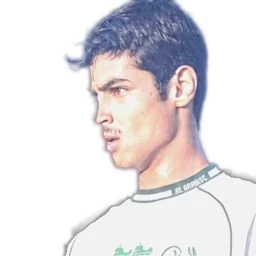
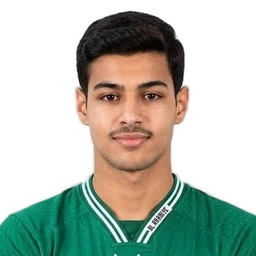
الجهراء: «تركي المطيري» صار لاعب الوسط (22، وسط ميدان) بصورته وبلا علم السعودية؛ المهاجم السعودي خارج الكشف. الفانتسي: p189 اسمه «تركي» بلا رقم ولا صورة «غير متوفر» ولا يُطابق أي اسم من الموقع. العربي: صورة سعود العنبري الجديدة (Gemini بالطقم الأخضر) — صور ?v=26، PLAYER_PHOTOS_VER 28، fantasy 248، s

diff --git a/fantasy/js/mfsync.js b/fantasy/js/mfsync.js
@@ -12,18 +12,19 @@ const MF_SQUAD_ADD = {
   'الفحيحيل': [ {n:'فهد الشلال', p:'LM', s:19}, {n:'احمد الشمري', p:'GK', s:22}, {n:'عبدالرحمن سالم', p:'CB', s:12} ],
   'الساحل': [ {n:'فاضل الصراف', p:'LM', s:20} ],
   'السالمية': [ {n:'فهد العميري', p:'RB', s:94}, {n:'علي دشتي', p:'CB', s:28} ],
-  'الجهراء': [ {n:'عبدالرحمن الاصيمع', p:'RM', s:10}, {n:'عبدالعزيز المسافر', p:'GK', s:0}, {n:'تركي المطيري (وسط)', p:'CM', s:22}, {n:'محمد الرشيدي', p:'GK', s:39} ],
+  'الجهراء': [ {n:'عبدالرحمن الاصيمع', p:'RM', s:10}, {n:'عبدالعزيز المسافر', p:'GK', s:0}, {n:'محمد الرشيدي', p:'GK', s:39} ],
 };
 /* انتقالات (نفس SQUAD_MOVE في index.html): تُطبّق على squads عند القراءة، فيلتقطها سحب الكشوفات كانتقال ويبقى السعر. */
 /* تصحيح رقم القميص (نفس SQUAD_NUM في index.html) */
 const MF_SQUAD_NUM = [
   {c:'العربي', n:'احمد عادي', s:26},
   {c:'العربي', n:'عايد ماجد', s:36},
+  {c:'الجهراء', n:'تركي المطيري', s:22, p:'CM'},
   {c:'الجهراء', n:'عبدالرحمن الاصيمع', s:10, p:'RM'},
 ];
-/* حذف من الكشف (نفس SQUAD_REMOVE في index.html) — مطابقة حرفية */
-const MF_SQUAD_REMOVE = [
-  {c:'الجهراء', n:'تركي المطيري'},
+/* إعادة تسمية (نفس SQUAD_RENAME في index.html) */
+const MF_SQUAD_RENAME = [
+  {c:'الجهراء', from:'تركي المطيري (وسط)', to:'تركي المطيري'},
 ];
 const MF_SQUAD_MOVE = [
   {n:'بدر طارق', from:'العربي', to:'كاظمة', s:77},
@@ -65,6 +66,9 @@ const MFSYNC = {
   async fetchSeason(){
     const d = await this.fetchSeasonRaw();
     if(d && d.squads){
+      MF_SQUAD_RENAME.forEach(r=>{ const l=d.squads[r.c]; if(!Array.isArray(l)) return; const nm=e=>String(typeof e==='string'?e:(e&&e.n)||'').trim();
+        if(!l.some(e=>nm(e)===r.from)) return;
+        d.squads[r.c]=l.filter(e=>nm(e)!==r.to).map(e=>nm(e)===r.from ? Object.assign({}, typeof e==='object'?e:{}, {n:r.to}) : e); });
       for(const c in MF_SQUAD_ADD){
         if(!Array.isArray(d.squads[c])) continue;
         MF_SQUAD_ADD[c].forEach(x=>{ if(!d.squads[c].some(e=>this.norm(typeof e==='string'?e:(e&&e.n))===this.norm(x.n))) d.squads[c].push({n:x.n, p:x.p, s:x.s}); });
@@ -72,8 +76,6 @@ const MFSYNC = {
       MF_SQUAD_NUM.forEach(x=>{ const l=d.squads[x.c]; if(!Array.isArray(l)) return;
         const i=l.findIndex(e=>this.norm(typeof e==='string'?e:(e&&e.n))===this.norm(x.n)); if(i<0) return;
         l[i]=Object.assign({}, typeof l[i]==='object'?l[i]:{n:l[i]}, {s:x.s}, x.p?{p:x.p}:{}); });
-      MF_SQUAD_REMOVE.forEach(r=>{ const l=d.squads[r.c]; if(!Array.isArray(l)) return;
-        d.squads[r.c]=l.filter(e=>String(typeof e==='string'?e:(e&&e.n)||'').trim()!==r.n); });
       MF_SQUAD_MOVE.forEach(mv=>{ const nm=e=>this.norm(typeof e==='string'?e:(e&&e.n)), src=d.squads[mv.from], dst=d.squads[mv.to];
         if(!Array.isArray(dst) || dst.some(e=>nm(e)===this.norm(mv.n))) return;
         const i=Array.isArray(src)?src.findIndex(e=>nm(e)===this.norm(mv.n)):-1, old=i>=0?src.splice(i,1)[0]:{};
@@ -145,7 +147,8 @@ const MFSYNC = {
     if(!nm) return null;
     /* اسم بتمييز بين قوسين («تركي المطيري (وسط)») = لاعب مستقل: مطابقة حرفية فقط، وإلا لورث نقاط ومالكي صاحب الاسم الأصلي */
     const exactOnly=/[()]/.test(clean);
-    const squad=[...DB.state.players.filter(p=>p.club===clubId),
+    const forced=(typeof FORCED_STATUS!=='undefined')?FORCED_STATUS:{};   /* لاعب محذوف من الكشف لا يُطابق أي اسم من الموقع */
+    const squad=[...DB.state.players.filter(p=>p.club===clubId && !forced[p.id]),
                  ...DB.state.players.filter(p=>p.club!==clubId && (p.exClubs||[]).includes(clubId))];
     let hit = squad.find(p=>this.norm(p.name)===nm);
     if(exactOnly){ if(!hit && report) report.unmatched.push(`${clean} (${DB.club(clubId).name})`); return hit||null; }

diff --git a/fantasy/index.html b/fantasy/index.html
@@ -12,8 +12,8 @@
 <link rel="preconnect" href="https://fonts.googleapis.com">
 <link rel="preconnect" href="https://fonts.gstatic.com" crossorigin>
 <link href="https://fonts.googleapis.com/css2?family=Vazirmatn:wght@300;400;500;600;700;800&display=swap" rel="stylesheet">
-<link rel="stylesheet" href="css/style.css?v=247">
-<link rel="stylesheet" href="css/motion.css?v=247">
+<link rel="stylesheet" href="css/style.css?v=248">
+<link rel="stylesheet" href="css/motion.css?v=248">
 <script src="https://cdnjs.cloudflare.com/ajax/libs/firebase/10.12.2/firebase-app-compat.min.js"></script>
 <script src="https://cdnjs.cloudflare.com/ajax/libs/firebase/10.12.2/firebase-auth-compat.min.js"></script>
 <script src="https://cdnjs.cloudflare.com/ajax/libs/firebase/10.12.2/firebase-firestore-compat.min.js"></script>
@@ -21,13 +21,13 @@
 </head>
 <body>
   <div id="splash">
-    <div class="splash-card"><img class="splash-logo" src="assets/logo-light.png?v=247" alt="Kuwait Fantasy League"></div>
+    <div class="splash-card"><img class="splash-logo" src="assets/logo-light.png?v=248" alt="Kuwait Fantasy League"></div>
   </div>
 
   <header id="topbar" style="display:none">
     <div id="brand" onclick="APP.go('dashboard')">
-      <img class="brand-lockup lk-dark" src="assets/logo-dark.png?v=247" alt="Kuwait Fantasy League">
-      <img class="brand-lockup lk-light" src="assets/logo-light.png?v=247" alt="Kuwait Fantasy League">
+      <img class="brand-lockup lk-dark" src="assets/logo-dark.png?v=248" alt="Kuwait Fantasy League">
+      <img class="brand-lockup lk-light" src="assets/logo-light.png?v=248" alt="Kuwait Fantasy League">
     </div>
     <a id="toSite" href="/" title="العودة للموقع">
       <svg viewBox="0 0 24 24" width="16" height="16" fill="none" stroke="currentColor" stroke-width="2.2" stroke-linecap="round" stroke-linejoin="round" aria-hidden="true"><path d="M9 6l6 6-6 6"/></svg>
@@ -42,29 +42,29 @@
   <nav id="bottomnav"></nav>
   <div id="toasts"></div>
 
-  <script src="js/cloud.js?v=247"></script>
-  <script src="js/data.js?v=247"></script>
-  <script src="js/engine.js?v=247"></script>
-  <script src="js/ui.js?v=247"></script>
-  <script src="js/photos.js?v=247"></script>
-  <script src="js/kits.js?v=247"></script>
-  <script src="js/kits-number.js?v=247"></script>
-  <script src="js/moderation.js?v=247"></script>
-  <script src="js/views.js?v=247"></script>
-  <script src="js/picker.js?v=247"></script>
-  <script src="js/extras.js?v=247"></script>
-  <script src="js/push.js?v=247"></script>
-  <script src="js/adminauth.js?v=247"></script>
-  <script src="js/admin.js?v=247"></script>
-  <script src="js/guide.js?v=247"></script>
-  <script src="js/live-gw.js?v=247"></script>
-  <script src="js/points.js?v=247"></script>
-  <script src="js/mfsync.js?v=247"></script>
-  <script src="js/roster-sync.js?v=247"></script>
-  <script src="js/app.js?v=247"></script>
-  <script src="js/motion.js?v=247"></script>
-  <script src="js/i18n.js?v=247"></script>
-  <script src="js/i18n-more.js?v=247"></script>
-  <script src="js/gate.js?v=247"></script>
+  <script src="js/cloud.js?v=248"></script>
+  <script src="js/data.js?v=248"></script>
+  <script src="js/engine.js?v=248"></script>
+  <script src="js/ui.js?v=248"></script>
+  <script src="js/photos.js?v=248"></script>
+  <script src="js/kits.js?v=248"></script>
+  <script src="js/kits-number.js?v=248"></script>
+  <script src="js/moderation.js?v=248"></script>
+  <script src="js/views.js?v=248"></script>
+  <script src="js/picker.js?v=248"></script>
+  <script src="js/extras.js?v=248"></script>
+  <script src="js/push.js?v=248"></script>
+  <script src="js/adminauth.js?v=248"></script>
+  <script src="js/admin.js?v=248"></script>
+  <script src="js/guide.js?v=248"></script>
+  <script src="js/live-gw.js?v=248"></script>
+  <script src="js/points.js?v=248"></script>
+  <script src="js/mfsync.js?v=248"></script>
+  <script src="js/roster-sync.js?v=248"></script>
+  <script src="js/app.js?v=248"></script>
+  <script src="js/motion.js?v=248"></script>
+  <script src="js/i18n.js?v=248"></script>
+  <script src="js/i18n-more.js?v=248"></script>
+  <script src="js/gate.js?v=248"></script>
 </body>
 </html>

diff --git a/fantasy/js/i18n-more.js b/fantasy/js/i18n-more.js
@@ -142,7 +142,7 @@ const NAMES_EN = {
   'محمد العلاطي':'Mohammad Al-Alati', 'أحمد غازي':'Ahmad Ghazi', 'محمد العتيبي':'Mohammad Al-Otaibi', 'ناصر القحطاني':'Nasser Al-Qahtani', 'كليتون':'Cleiton',
   'جواو':'Joao', 'راشد بن علي':'Rashed Bin Ali', 'غازي العتيبي':'Ghazi Al-Otaibi', 'جابر العجاجي':'Jaber Al-Ajaji', 'ألن دي سوزا':'Alan De Souza',
   // التضامن
-  'داود الخالدي':'Dawoud Al-Khalidi', 'نايف العازمي':'Naif Al-Azmi', 'عمر العازمي':'Omar Al-Azmi', 'ابراهيم الظفيري':'Ibrahim Al-Dhafiri', 'احمد الرشيدي':'Ahmad Al-Rashidi', 'محمد عجاج':'Mohammad Ajaj', 'مزيد نواف':'Mazyad Nawaf', 'حسين العريان':'Hussain Al-Arayan', 'عايد ماجد':'Ayed Majed', 'فواز الداوود':'Fawaz Al-Dawood', 'سعود العنبري':'Saud Al-Anbari', 'حسين اشكناني':'Hussain Ashkanani', 'عبدالرحمن الاصيمع':'Abdulrahman Al-Usaimi', 'عبدالعزيز المسافر':'Abdulaziz Al-Musafer', 'فهد العميري':'Fahad Al-Umairi', 'علي دشتي':'Ali Dashti', 'محمد الرشيدي':'Mohammad Al-Rashidi', 'تركي المطيري (وسط)':'Turki Al-Mutairi (MF)', 'يوسف صباح':'Yousef Sabah', 'حمد الحربي':'Hamad Al-Harbi', 'فيصل الشطي':'Faisal Al-Shatti', 'وليد سعد':'Waleed Saad', 'محمد عليان':'Mohammad Alyan',
+  'داود الخالدي':'Dawoud Al-Khalidi', 'نايف العازمي':'Naif Al-Azmi', 'عمر العازمي':'Omar Al-Azmi', 'ابراهيم الظفيري':'Ibrahim Al-Dhafiri', 'احمد الرشيدي':'Ahmad Al-Rashidi', 'محمد عجاج':'Mohammad Ajaj', 'مزيد نواف':'Mazyad Nawaf', 'حسين العريان':'Hussain Al-Arayan', 'عايد ماجد':'Ayed Majed', 'فواز الداوود':'Fawaz Al-Dawood', 'سعود العنبري':'Saud Al-Anbari', 'حسين اشكناني':'Hussain Ashkanani', 'عبدالرحمن الاصيمع':'Abdulrahman Al-Usaimi', 'عبدالعزيز المسافر':'Abdulaziz Al-Musafer', 'فهد العميري':'Fahad Al-Umairi', 'علي دشتي':'Ali Dashti', 'محمد الرشيدي':'Mohammad Al-Rashidi',  'يوسف صباح':'Yousef Sabah', 'حمد الحربي':'Hamad Al-Harbi', 'فيصل الشطي':'Faisal Al-Shatti', 'وليد سعد':'Waleed Saad', 'محمد عليان':'Mohammad Alyan',
   'أحمد رحيل':'Ahmad Raheel', 'محمد الشريفي':'Mohammad Al-Shuraifi', 'سلمان العجمي':'Salman Al-Ajmi', 'فواز الخالدي':'Fawaz Al-Khalidi', 'حسن حسون':'Hassan Hassoun',
   'بيريرا':'Pereira', 'أحمد دالي':'Ahmad Dali', 'سانتوس':'Santos', 'تركي اليوسف':'Turki Al-Yousef', 'أبوبكر دوما':'Aboubakar Douma', 'فهد الرشيدي':'Fahad Al-Rashidi',
   'أحمد شبيب':'Ahmad Shabib', 'حامد الرشيدي':'Hamed Al-Rashidi', 'عبدالمحسن العجمي':'Abdulmohsen Al-Ajmi', 'سعود قاسم':'Saud Qasem', 'ضاري المعصب':'Dhari Al-Muasab',

diff --git a/fantasy/js/engine.js b/fantasy/js/engine.js
@@ -17,9 +17,9 @@ function esc(s){ return String(s??'').replace(/[&<>"']/g, c=>({'&':'&amp;','<':'
 const POS_AR = { G:'حارس', D:'مدافع', M:'وسط', F:'مهاجم' };
 const POS_ORDER = { G:0, D:1, M:2, F:3 };
 
-/* حالة مفروضة من الكود (منصور 2026-09-17): لاعب خرج من كشف الموقع وفي فرق مشتركين — «غير متوفر» بدل حذفه
-   حتى لا يختفي فجأة من فرقهم. p189 = تركي المطيري السعودي (الجهراء 22، 11 مالكاً وقت القرار). */
-const FORCED_STATUS = { p189: 'n' };
+/* لاعب خرج من كشف الموقع وفي فرق مشتركين (منصور 2026-09-17): يبقى «غير متوفر» بدل حذفه حتى لا يختفي فجأة من فرقهم.
+   p189 = المهاجم السعودي (11 مالكاً، لم يلعب أي مباراة): اسمه «تركي» بلا رقم ولا صورة — «تركي المطيري» صار لاعب الوسط. */
+const FORCED_STATUS = { p189: {status:'n', name:'تركي', shirt:0} };
 const DB = {
   /* رقم النسخة يُرفع عند أي تغيير جوهري في البذرة (كشف اللاعبين أو
      أسعارهم). الحالة المحفوظة تُبنى من جديد بدل أن تبقى على بيانات
@@ -38,7 +38,7 @@ const DB = {
     this.state = buildSeedState();
     this.save();
   },
-  applyForcedStatus(){ (this.state&&this.state.players||[]).forEach(p=>{ const s=FORCED_STATUS[p.id]; if(s) p.status=s; }); },
+  applyForcedStatus(){ (this.state&&this.state.players||[]).forEach(p=>{ const f=FORCED_STATUS[p.id]; if(f) Object.assign(p, f, {photo:''}); }); },
   save(){
     this.dirtyAt=Date.now();
     try{ const me=this.state.session; if(me && this.state.teams[me] && typeof TEAM!=='undefined') TEAM.normalize(this.state.teams[me], this.state); }catch(e){}

diff --git a/fantasy/js/photos.js b/fantasy/js/photos.js
@@ -4,7 +4,7 @@
 'use strict';
 
 /* رقم نسخة الصور: ارفعه عند إعادة توليد أي قصّة حتى لا يبقى المتصفح على النسخة القديمة */
-const PLAYER_PHOTOS_VER = '27';
+const PLAYER_PHOTOS_VER = '28';
 
 const PLAYER_PHOTOS = {
   // الصليبخات (17)
@@ -243,7 +243,7 @@ const PLAYER_PHOTOS = {
   'JAH|مبارك الحربي': '/assets/players/jah/1',   // جلسة النادي الرسمية (Drive) من رسم تشكيلة النادي
   'JAH|تاكامبا ناسام': '/assets/players/jah/26',   // جلسة النادي الرسمية (Drive) من رسم تشكيلة النادي
   'JAH|ماركوس راموس': '/assets/players/jah/13',   // جلسة النادي الرسمية (Drive) من رسم تشكيلة النادي
-  'JAH|تركي المطيري': '/assets/players/jah/22',   // جلسة النادي الرسمية (Drive) من صورة منصور
+  'JAH|تركي المطيري': '/assets/players/jah/turki_mid',   // جلسة النادي الرسمية (Drive) من صورة منصور
   'JAH|عبدالله الداحس': '/assets/players/jah/80',
   'JAH|جاسم العنزي': '/assets/players/jah/4',
   'JAH|عادل جاسم الشمري': '/assets/players/jah/8',
@@ -297,7 +297,6 @@ const PLAYER_PHOTOS = {
   'ARB|حسين اشكناني': '/assets/players/arb/8',
   'JAH|عبدالرحمن الاصيمع': '/assets/players/jah/usaimi',
   'JAH|عبدالعزيز المسافر': '/assets/players/jah/musafer',
-  'JAH|تركي المطيري (وسط)': '/assets/players/jah/turki_mid',
   'JAH|محمد الرشيدي': '/assets/players/jah/rashidi_gk',
   'ARB|يوسف صباح': '/assets/players/arb/70',
   'ARB|حمد الحربي': '/assets/players/arb/12',

diff --git a/fantasy/js/data.js b/fantasy/js/data.js
@@ -99,7 +99,7 @@ const SEED_PLAYERS = [
   ['JAH','M','طلال جازع',4.5,14], ['JAH','M','ايفانز امبوفو',5,15], ['JAH','M','أحمد العجمي',4.5,18],
   ['JAH','M','طلال مزيد',4.5,19], ['JAH','M','عبدالله الداحس',4.5,80], ['JAH','M','عبدالرحمن الظفيري',5.5,88],
   ['JAH','M','عادل جاسم الشمري',4.5,8], ['JAH','F','محمد فهد',4.5,9], ['JAH','D','ماركوس راموس',5.5,13],
-  ['JAH','F','فهد السلامه',4.5,17], ['JAH','F','تركي المطيري',4.5,22], ['JAH','M','أحمد الشمري',4,77],
+  ['JAH','F','فهد السلامه',4.5,17], ['JAH','F','تركي',4.5,0], ['JAH','M','أحمد الشمري',4,77],
   ['JAH','F','كيريست افالانا',5.5,98],
   // الفحيحيل — 22 لاعباً (حراس 2 · مدافعون 9 · وسط 6 · مهاجمون 5)
   ['FAH','G','علي فاضل',4.5,1], ['FAH','G','احمد دشتي',4,26], ['FAH','D','حسين دشتي',4,2],

diff --git a/sw.js b/sw.js
@@ -9,7 +9,7 @@
 
    عند كل نشر: ارفع رقم VER فتُبنى ذاكرة جديدة وتُحذف القديمة.
    ========================================================= */
-const VER   = 'mf-2026-09-17-164';
+const VER   = 'mf-2026-09-17-165';
 const SHELL = 'shell-' + VER;
 const RUN   = 'run-'   + VER;
 
